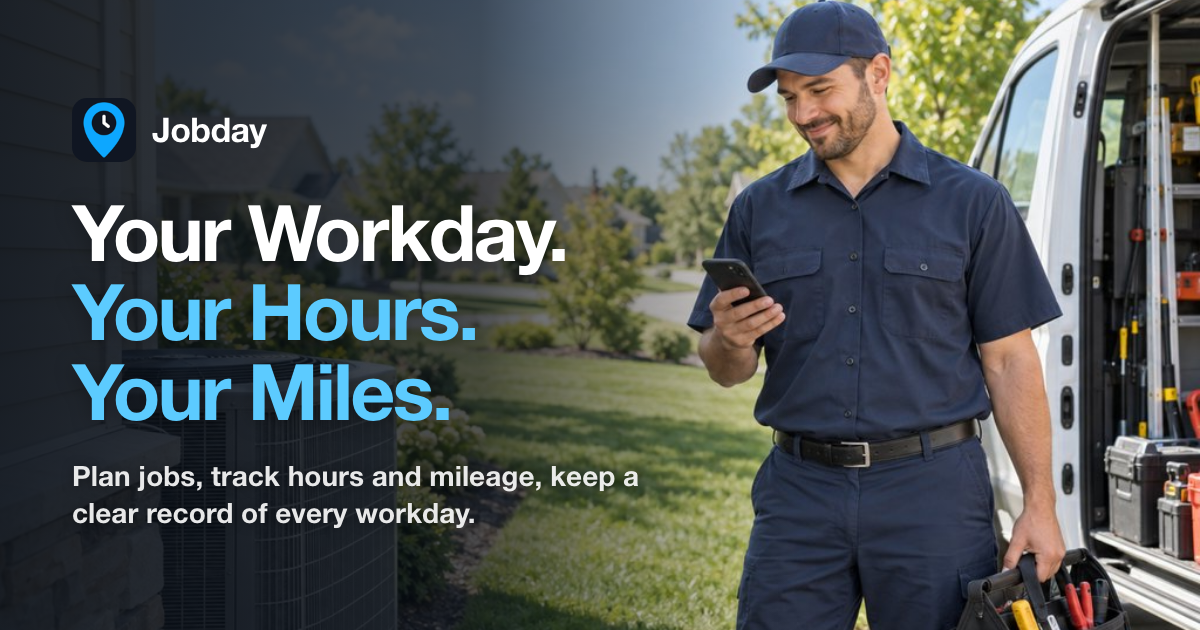
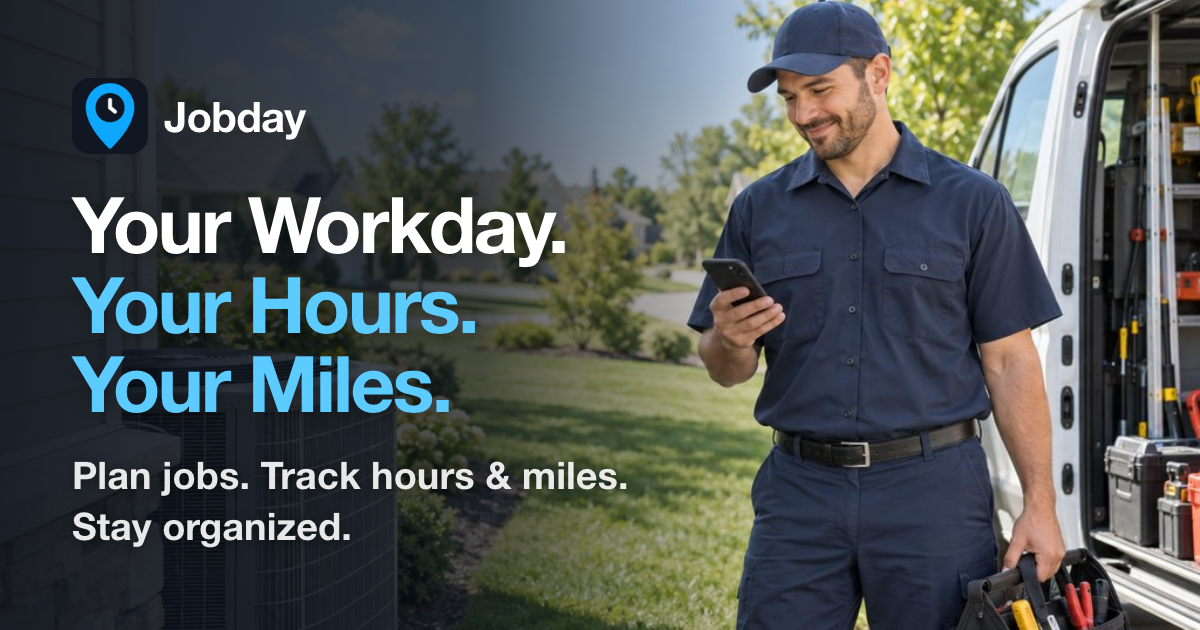
Landing: OG image v2 (JPG), alt text

Changed region(s): [[0.0617, 0.3016, 0.4933, 0.6635], [0.0617, 0.7238, 0.555, 0.8746], [0.0617, 0.1206, 0.2775, 0.2413]]

diff --git a/public/index.html b/public/index.html
@@ -14,12 +14,13 @@
 <meta property="og:title" content="Jobday – Work Hours, Mileage &amp; Job Site Tracker">
 <meta property="og:description" content="Plan your jobs, keep your work hours and mileage, and have a clear record of every workday. Free to start, no account required.">
 <meta property="og:url" content="https://jobday.app/">
-<meta property="og:image" content="https://jobday.app/img/og.png">
+<meta property="og:image" content="https://jobday.app/img/og.jpg">
+<meta property="og:image:type" content="image/jpeg">
 <meta property="og:image:width" content="1200">
 <meta property="og:image:height" content="630">
-<meta property="og:image:alt" content="Jobday: Your Workday. Your Hours. Your Miles. The Today screen with hours, miles and timeline.">
+<meta property="og:image:alt" content="Jobday: Your Workday. Your Hours. Your Miles. A field technician checking his day on a phone next to a service van.">
 <meta name="twitter:card" content="summary_large_image">
-<meta name="twitter:image" content="https://jobday.app/img/og.png">
+<meta name="twitter:image" content="https://jobday.app/img/og.jpg">
 <link rel="preload" as="image" href="img/hvac-truck.webp" imagesrcset="img/hvac-truck-640.webp 640w, img/hvac-truck.webp 1024w" imagesizes="100vw" fetchpriority="high">
 <link rel="preconnect" href="https://fonts.googleapis.com">
 <link rel="preconnect" href="https://fonts.gstatic.com" crossorigin>
